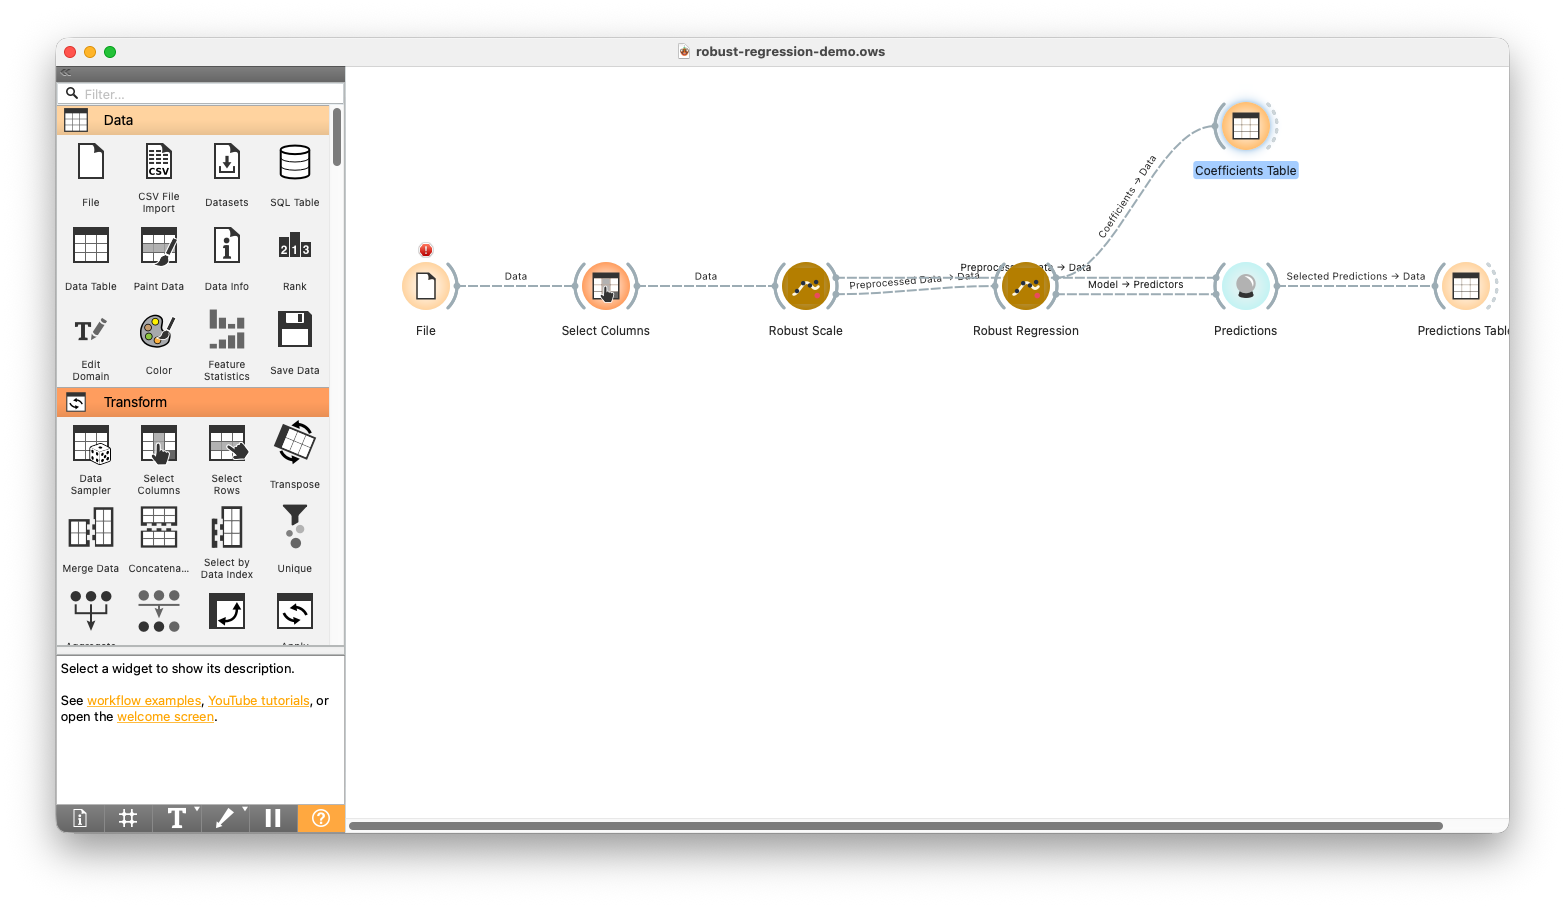
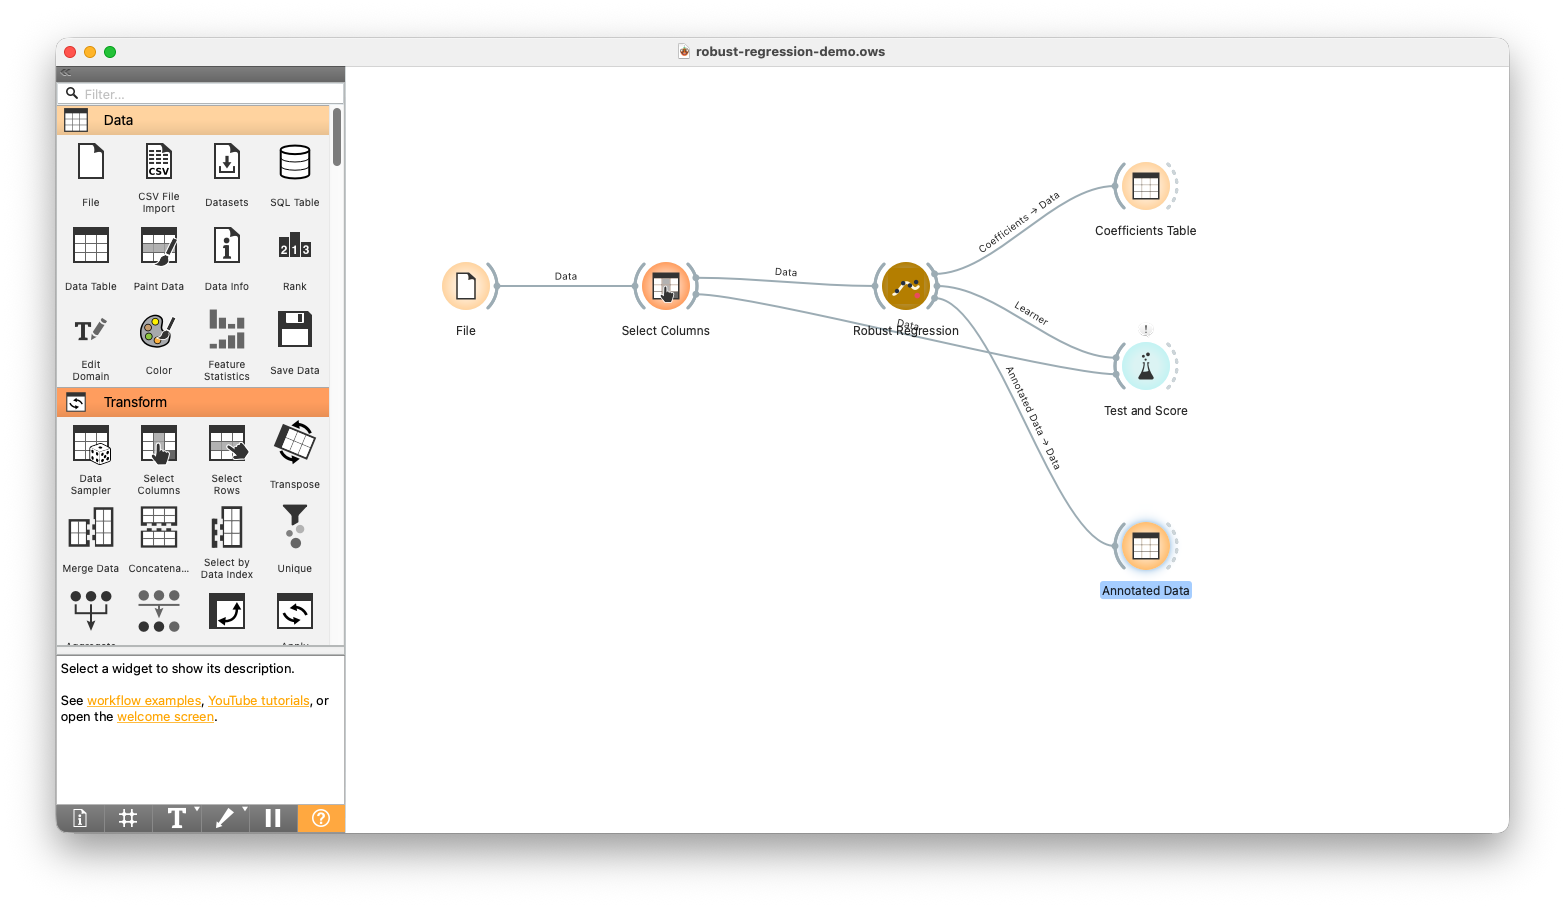
Align robust regression with Orange preprocessing

diff --git a/orangecontrib/robust/widgets/owrobustregression.py b/orangecontrib/robust/widgets/owrobustregression.py
@@ -69,7 +69,7 @@ class OWRobustRegression(OWBaseWidget):
         self.data = None
 
         model_box = gui.widgetBox(self.controlArea, "Model")
-        gui.comboBox(
+        self.learner_combo = gui.comboBox(
             model_box,
             self,
             "learner_name",
@@ -242,33 +242,18 @@ class OWRobustRegression(OWBaseWidget):
         return box
 
     def _update_visible_parameters(self):
-        learner_name = self._learner_name()
         for name, box in self._parameter_boxes.items():
-            box.setVisible(name == learner_name)
-
-    def _learner_name(self):
-        value = self.learner_name
-        if isinstance(value, int):
-            if 0 <= value < len(self.LEARNER_NAMES):
-                value = self.LEARNER_NAMES[value]
-            else:
-                value = self.LEARNER_NAMES[0]
-            self.learner_name = value
-        elif value not in self.LEARNERS:
-            value = self.LEARNER_NAMES[0]
-            self.learner_name = value
-        return value
+            box.setVisible(name == self.learner_name)
 
     def _params(self):
-        learner_name = self._learner_name()
-        if learner_name == "Huber":
+        if self.learner_name == "Huber":
             return {
                 "epsilon": self.huber_epsilon,
                 "alpha": self.huber_alpha,
                 "max_iter": self.huber_max_iter,
                 "fit_intercept": self.huber_fit_intercept,
             }
-        if learner_name == "RANSAC":
+        if self.learner_name == "RANSAC":
             params = {
                 "max_trials": self.ransac_max_trials,
                 "stop_probability": self.ransac_stop_probability,
@@ -294,11 +279,14 @@ class OWRobustRegression(OWBaseWidget):
         return params
 
     def _build_learner(self):
-        learner_cls = self.LEARNERS[self._learner_name()]
+        learner_cls = self.LEARNERS[self.learner_name]
         kwargs = self._params()
         if self.robust_scale:
             kwargs["preprocessors"] = [RobustScale()]
-        return learner_cls(**kwargs)
+        learner = learner_cls(**kwargs)
+        if self.robust_scale:
+            learner.use_default_preprocessors = True
+        return learner
 
     def _send_learner(self):
         self.Outputs.learner.send(self._build_learner())
@@ -357,8 +345,8 @@ class OWRobustRegression(OWBaseWidget):
         ]
         meta_vars.extend(
             [
-                ContinuousVariable(f"{self._learner_name()} Prediction"),
-                ContinuousVariable(f"{self._learner_name()} Residual"),
+                ContinuousVariable(f"{self.learner_name} Prediction"),
+                ContinuousVariable(f"{self.learner_name} Residual"),
             ]
         )
 
@@ -387,7 +375,7 @@ class OWRobustRegression(OWBaseWidget):
         if coefs is None:
             return None
 
-        names = [var.name for var in self.data.domain.attributes]
+        names = [var.name for var in model.domain.attributes]
         values = np.asarray(coefs, dtype=float).ravel()
 
         if intercept is not None:

diff --git a/tests/test_widgets.py b/tests/test_widgets.py
@@ -3,22 +3,73 @@ import os
 os.environ.setdefault("QT_QPA_PLATFORM", "offscreen")
 
 from AnyQt.QtWidgets import QApplication
+import numpy as np
+from Orange.data import ContinuousVariable, DiscreteVariable, Domain, Table
 
-from orangecontrib.robust.learners import RANSACLearner, TheilSenLearner
+from orangecontrib.robust.learners import RANSACLearner
 from orangecontrib.robust.widgets.owrobustregression import OWRobustRegression
 
 
-def test_robust_regression_migrates_old_combo_box_indices():
+def _mixed_regression_data():
+    zone = DiscreteVariable("zone", values=("A", "B", "C"))
+    size = ContinuousVariable("size")
+    price = ContinuousVariable("price")
+    x = np.array(
+        [
+            [0, 80],
+            [1, 90],
+            [2, 100],
+            [0, 110],
+            [1, 120],
+            [2, 130],
+            [0, 140],
+            [1, 150],
+            [2, 160],
+        ],
+        dtype=float,
+    )
+    y = np.array([100, 120, 155, 135, 150, 190, 170, 185, 225], dtype=float)
+    return Table(Domain([zone, size], price), x, y)
+
+
+def test_robust_regression_combo_box_stores_selected_value():
     app = QApplication.instance() or QApplication([])
     widget = OWRobustRegression()
     try:
-        widget.learner_name = 1
-        assert isinstance(widget._build_learner(), RANSACLearner)
+        widget.learner_combo.setCurrentIndex(1)
+        widget.learner_combo.textActivated.emit("RANSAC")
         assert widget.learner_name == "RANSAC"
+        assert isinstance(widget._build_learner(), RANSACLearner)
+    finally:
+        widget.onDeleteWidget()
+        app.processEvents()
 
-        widget.learner_name = 2
-        assert isinstance(widget._build_learner(), TheilSenLearner)
-        assert widget.learner_name == "Theil-Sen"
+
+def test_robust_regression_scaling_keeps_default_sklearn_preprocessors():
+    app = QApplication.instance() or QApplication([])
+    widget = OWRobustRegression()
+    try:
+        widget.robust_scale = True
+        data = _mixed_regression_data()
+
+        for learner_name in widget.LEARNER_NAMES:
+            widget.learner_name = learner_name
+            learner = widget._build_learner()
+
+            preprocessor_names = [
+                type(preprocessor).__name__
+                for preprocessor in learner.active_preprocessors
+            ]
+            assert preprocessor_names[:3] == [
+                "RobustScale",
+                "HasClass",
+                "Continuize",
+            ]
+
+            model = learner(data)
+            widget.data = data
+            coefficients = widget._coefficients_table(model)
+            assert len(coefficients) == len(model.domain.attributes) + 1
     finally:
         widget.onDeleteWidget()
         app.processEvents()

diff --git a/tests/test_package.py b/tests/test_package.py
@@ -1,4 +1,5 @@
 from importlib.metadata import entry_points
+from pathlib import Path
 
 
 def test_orange_widget_entry_point_is_registered():
@@ -29,3 +30,35 @@ def test_orange_widget_discovery_finds_robust_category():
         "Robust Regression",
         "Robust Scale",
     }
+
+
+def test_demo_workflow_loads():
+    from orangecanvas.registry import WidgetRegistry
+    from orangecanvas.scheme import Scheme
+    from orangecanvas.scheme.readwrite import scheme_load
+    from orangewidget.workflow.discovery import WidgetDiscovery
+
+    registry = WidgetRegistry()
+    discovery = WidgetDiscovery(registry)
+    discovery.run("orange.widgets")
+    discovery.run("orangecontrib.robust.widgets")
+
+    scheme = Scheme()
+    workflow = (
+        Path(__file__).resolve().parents[1]
+        / "docs"
+        / "examples"
+        / "robust-regression-demo.ows"
+    )
+    with workflow.open("rb") as stream:
+        scheme_load(scheme, stream, registry=registry)
+
+    assert [node.title for node in scheme.nodes] == [
+        "File",
+        "Select Columns",
+        "Robust Regression",
+        "Test and Score",
+        "Coefficients Table",
+        "Annotated Data",
+    ]
+    assert len(scheme.links) == 6

diff --git a/orangecontrib/robust/widgets/owrobustscale.py b/orangecontrib/robust/widgets/owrobustscale.py
@@ -70,6 +70,7 @@ class OWRobustScale(OWBaseWidget):
             label="upper quantile",
             callback=self.commit,
         )
+        gui.rubber(self.controlArea)
         self.commit()
 
     @Inputs.data

diff --git a/README.md b/README.md
@@ -32,17 +32,18 @@ Restart Orange after installing so the widget registry is refreshed.
 
 For a new workflow:
 
-1. Add **File** or **Paint Data**.
+1. Add **Datasets**, **File**, or **Paint Data**.
 2. Add **Select Columns** and set a continuous target variable.
-3. Add **Robust Scale** if you want median/IQR preprocessing before modelling.
-4. Add **Robust Regression** and choose **Huber**, **RANSAC**, or **Theil-Sen**.
+3. Add **Robust Regression** and choose **Huber**, **RANSAC**, or **Theil-Sen**.
+4. Turn on **Scale features by median and IQR before fitting** if you want
+   robust scaling inside that learner.
 5. Connect **Robust Regression** to **Predictions**, **Test & Score**, or
    **Data Table** outputs as needed.
 
 The checked demo workflow in `docs/examples/robust-regression-demo.ows` shows
 the recommended wiring:
 
-![Orange workflow using Robust Scale and Robust Regression](docs/images/orange-robust-demo-workflow.png)
+![Orange workflow using Robust Regression](docs/images/orange-robust-demo-workflow.png)
 
 The **Robust Regression** widget exposes the model choice, optional median/IQR
 scaling, and per-method parameters:
@@ -70,7 +71,10 @@ The **Robust Regression** widget outputs:
 - a coefficient table when the fitted estimator exposes coefficients.
 
 The **Robust Scale** widget outputs both a preprocessor and a transformed table,
-so it can be placed before other Orange learners as well as the robust learners.
+so it can be placed before other Orange learners or used to inspect/export a
+median/IQR-scaled table. Do not put **Robust Scale** before **Robust
+Regression** if the regression widget's internal scaling checkbox is also on,
+because that will scale continuous features twice.
 
 ## Why This Exists
 
@@ -83,6 +87,6 @@ Python for a clean comparison. This add-on fills that gap.
 - Keep tests passing in a clean virtual environment.
 - Verify `pip install git+https://github.com/solresol/Orange3-Robust.git`.
 - Open Orange and confirm the **Robust** category loads.
-- Wire `File -> Select Columns -> Robust Regression -> Predictions`.
+- Wire `File -> Select Columns -> Robust Regression -> Test & Score`.
 - Publish to PyPI as `Orange3-Robust`.
 - Request inclusion in `biolab/orange3-addons` once PyPI install is stable.
